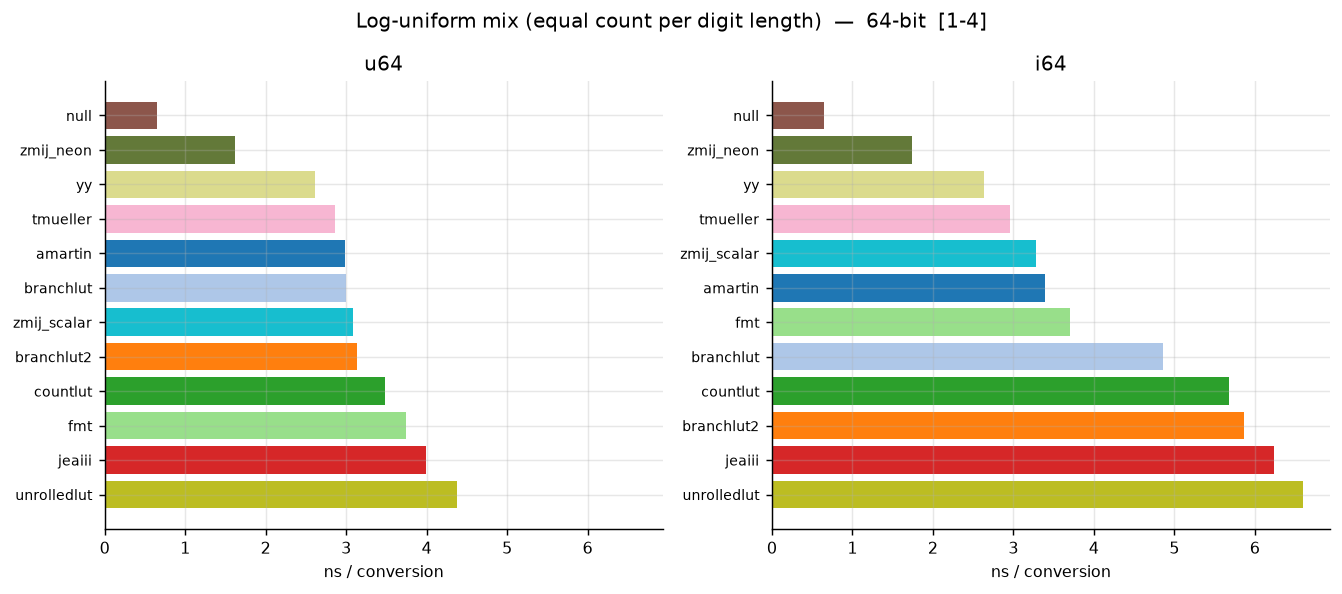
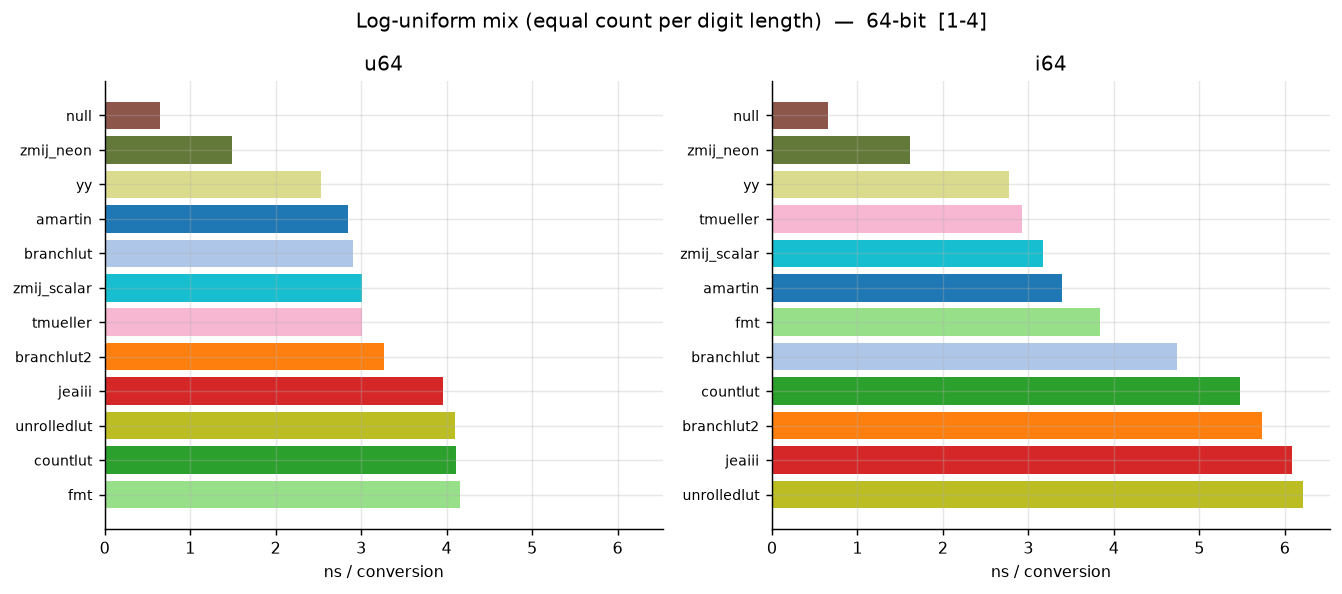
Update plots and readme

diff --git a/readme.md b/readme.md
@@ -1,10 +1,49 @@
+# Converting an integer to a string in less than one nanosecond
+
+Integer conversion happens practically every time two computers talk to each
+other or when they display data to the user.  That user-id?  An integer.
+That post you're replying to?  Identified by an integer.  The number of bytes
+the other side should wait for?  Another integer.  The timestamp?  An
+integer.  Your IP address?  Four integers.  Date and time?  Displayed as
+integers.  Conversion of integers to strings (also called `itoa` after the
+old C library call for that purpose) happens everywhere all the time and
+every CPU cycle saved improves someone's day.
+
+This repository was used to develop and benchmark a new class of branchfree
+integer conversion codes which show exceptional performance independent of
+the size of the number.  Where more classical implementations loop over the
+digits or branch based on the number of digits, we treat the digits in one
+go leveraging SIMD instructions and the fact that many digits fit inside the
+wide register of modern CPUs totally avoiding the expensive branches that
+slow down other approaches.  Additionally, since we materialize the final
+string directly in the output memory location and evaluate the length of the
+output in parallel, the out-of-order capabilities of today's CPUs can be
+brought to full use.  The calling program knows where to continue writing
+early and so it can continue while the digits may still be making their way
+into the CPU's L1 cache, thus minimizing the time each conversion adds to
+the program's execution time.
+
+These codes were developed based on the conversion code originally
+contributed to [zmij](https://github.com/vitaut/zmij), the fastest library
+for float-to-string conversion.  The problem set is different for integers,
+and so while we retain the SIMD core, there's a lot of new code, giving us
+what is probably the fastest library for converting typical integer workloads
+to strings.
+
+The title alludes to [Champagne Gareau and Lemire's paper](https://onlinelibrary.wiley.com/doi/epdf/10.1002/spe.70079?msockid=1d720e4d021d666c29981b3703796782)
+where they use AVX-512 instructions to great effect.  While we don't yet
+include AVX-512 implementations, and they use branches that work well with
+their benchmarks, our implementation on Apple Silicon (M5) does indeed
+convert `int32_t` in less than a nanosecond, using all but 32 machine
+instructions and no branches.  A proper comparison is `unsigned long` which
+clocks in at 1.5ns and 49 instructions with our codes.  These times include
+a benchmark overhead that is measured to about 0.65ns, so in that sense also
+converting an `int64_t` takes less than a nanosecond.
+
 # itoa Benchmark with zmij-based branchfree algorithms
 
-A fork of [Milo Yip's itoa-benchmark](https://github.com/miloyip/itoa-benchmark)
-that was used to develop the **branch-free itoa algorithms** based on the BCD
-(binary-coded decimal) conversion code found in
-[zmij](https://github.com/vitaut/zmij).  These are among the fastest codes,
-if not the fastest codes for general purpose integer-to-string conversion.
+This repository is a fork of [Milo Yip's itoa-benchmark](https://github.com/miloyip/itoa-benchmark),
+which was enhanced to give a more realistic sampling of the pitfalls of .
 
 The code supports both aarch64 using NEON intrinsics and amd64 with specialized
 implementations for the microarchitecture levels v1 (SSE2), v2 (SSE4.1), and v3
